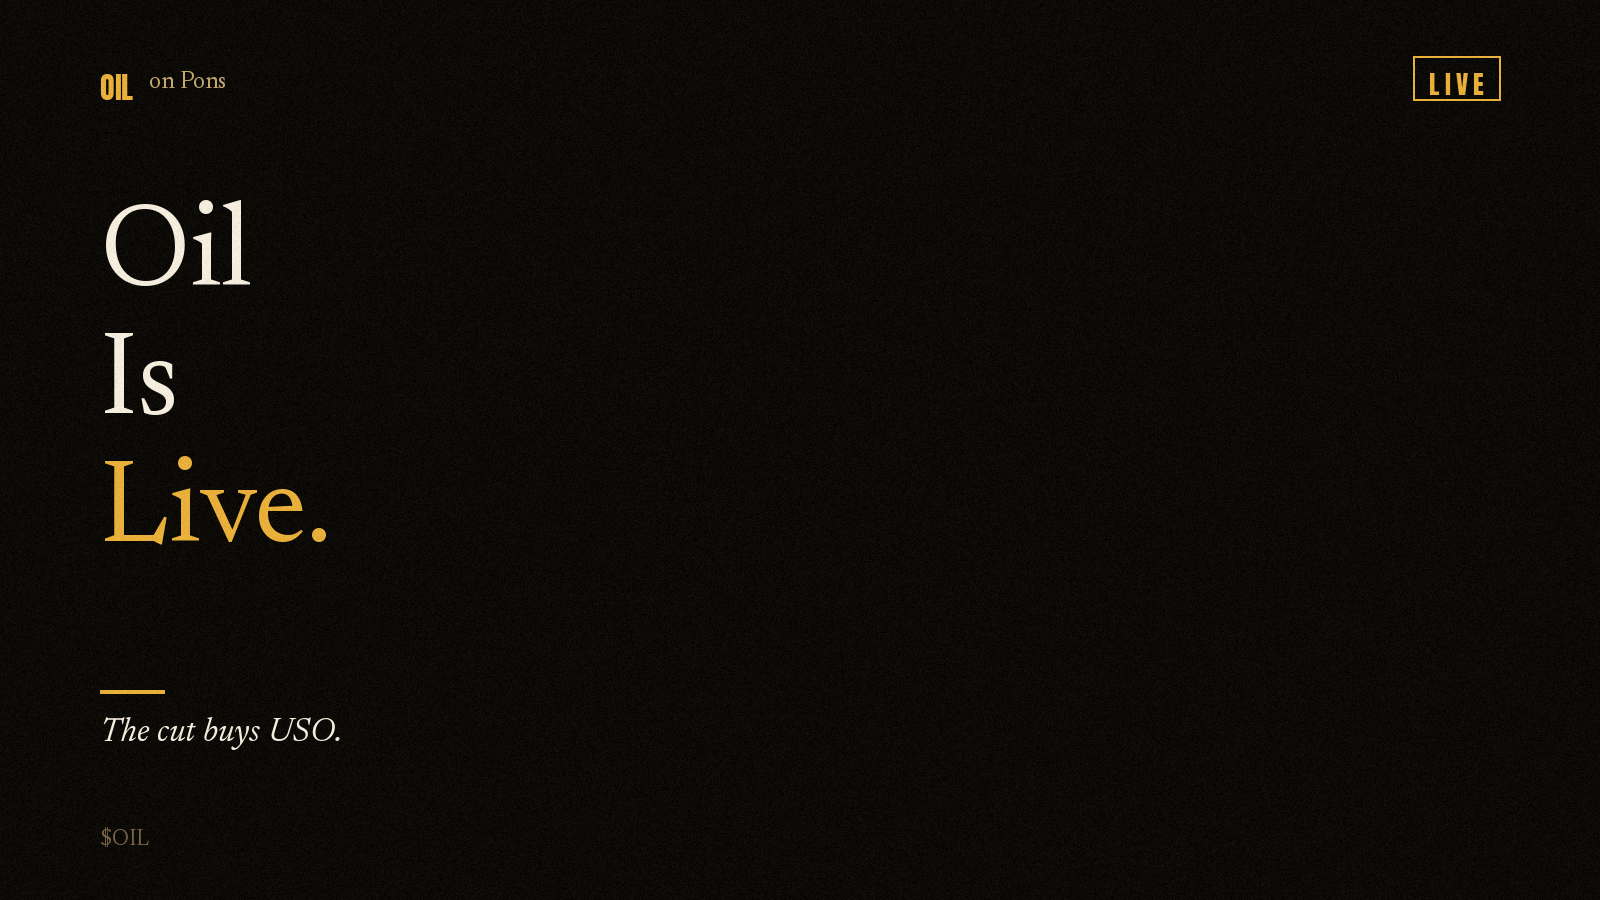
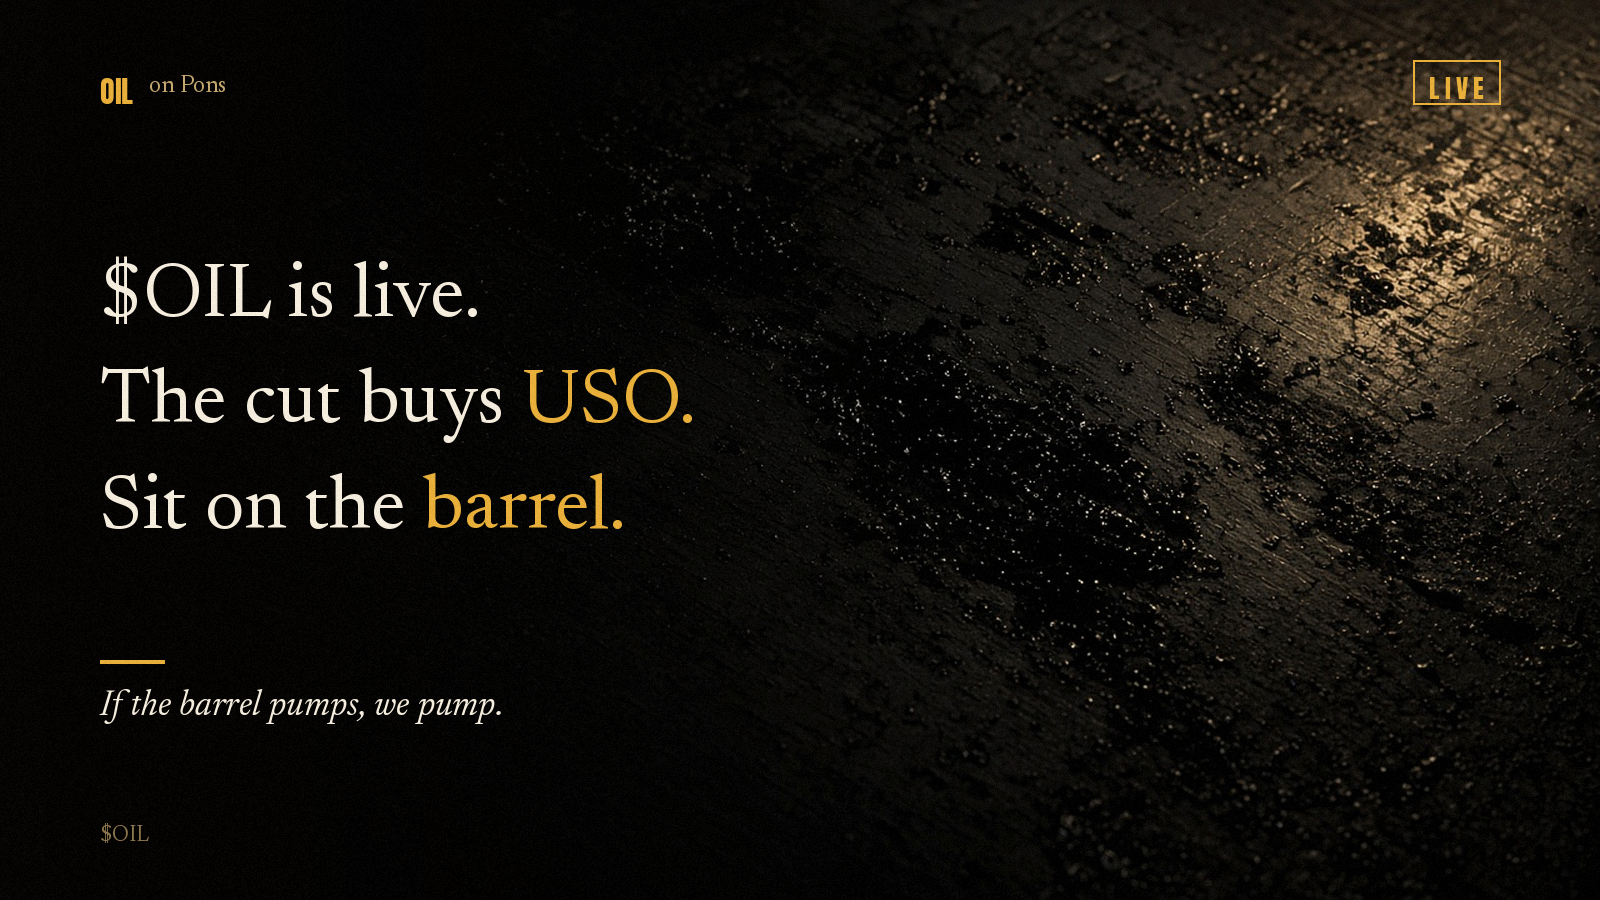
Restore the three-line LIVE card on dark steel

diff --git a/public/brand/tweets/TWEETS.md b/public/brand/tweets/TWEETS.md
@@ -7,11 +7,12 @@ Images in this folder. Attach one per post.
 Use `01-live.png` (type card). Backup: `05-token-is-live.png`.
 
 ```
-Oil
-Is
-Live.
+$OIL is live.
 
 The cut buys USO.
+Sit on the barrel.
+
+If the barrel pumps, we pump.
 ```
 
 ## 2. Drill baby drill
